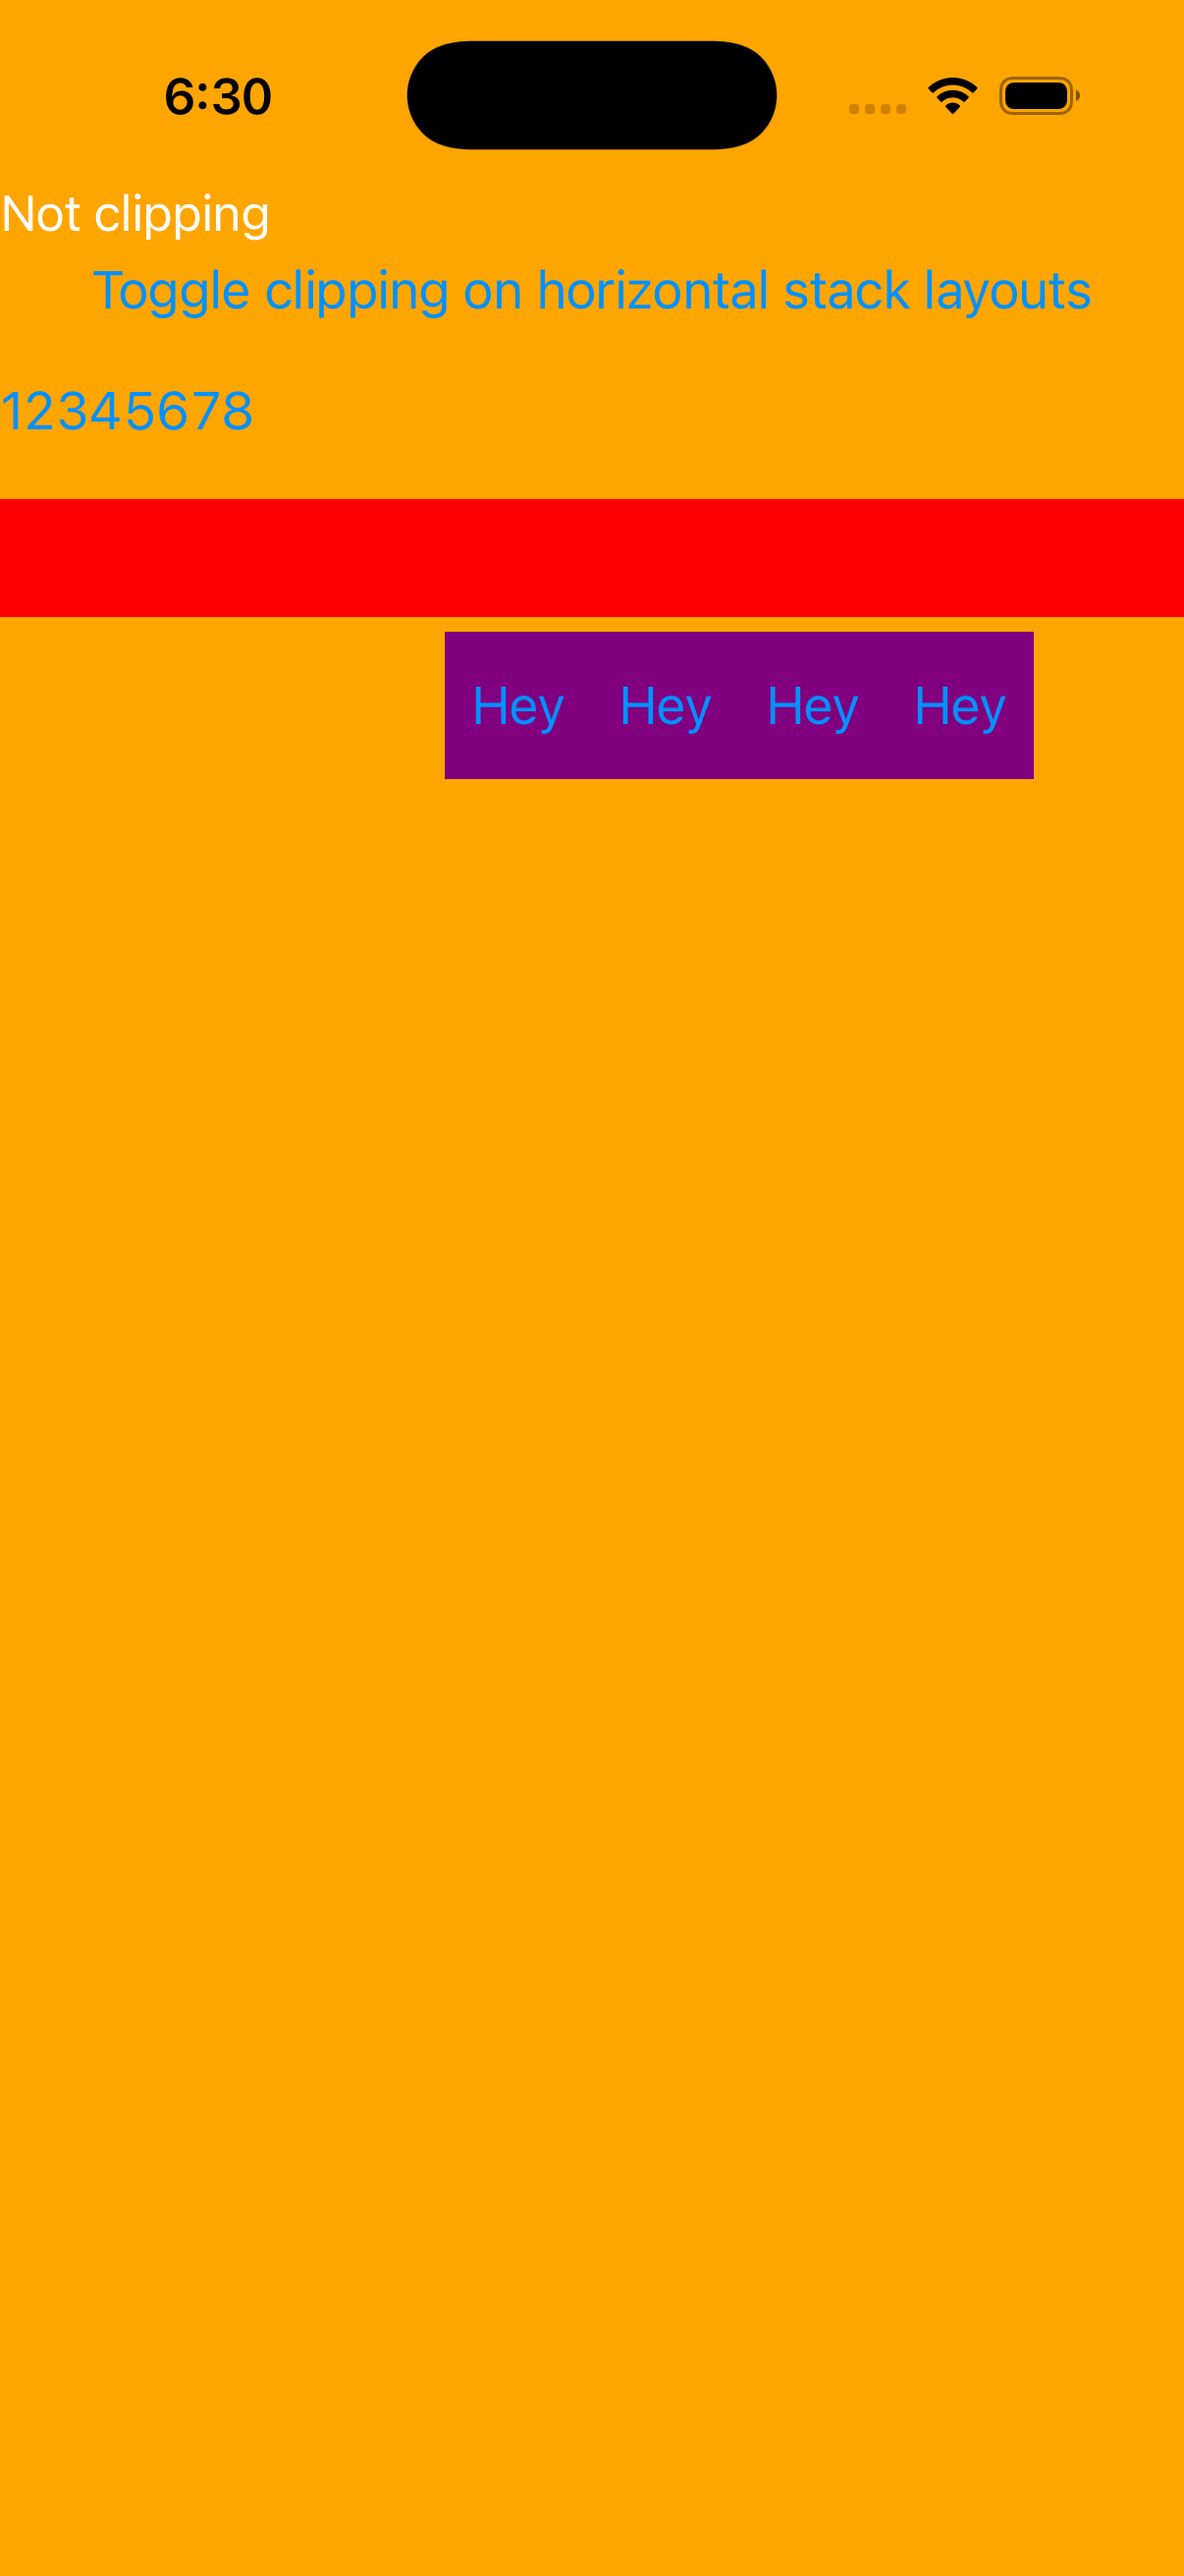
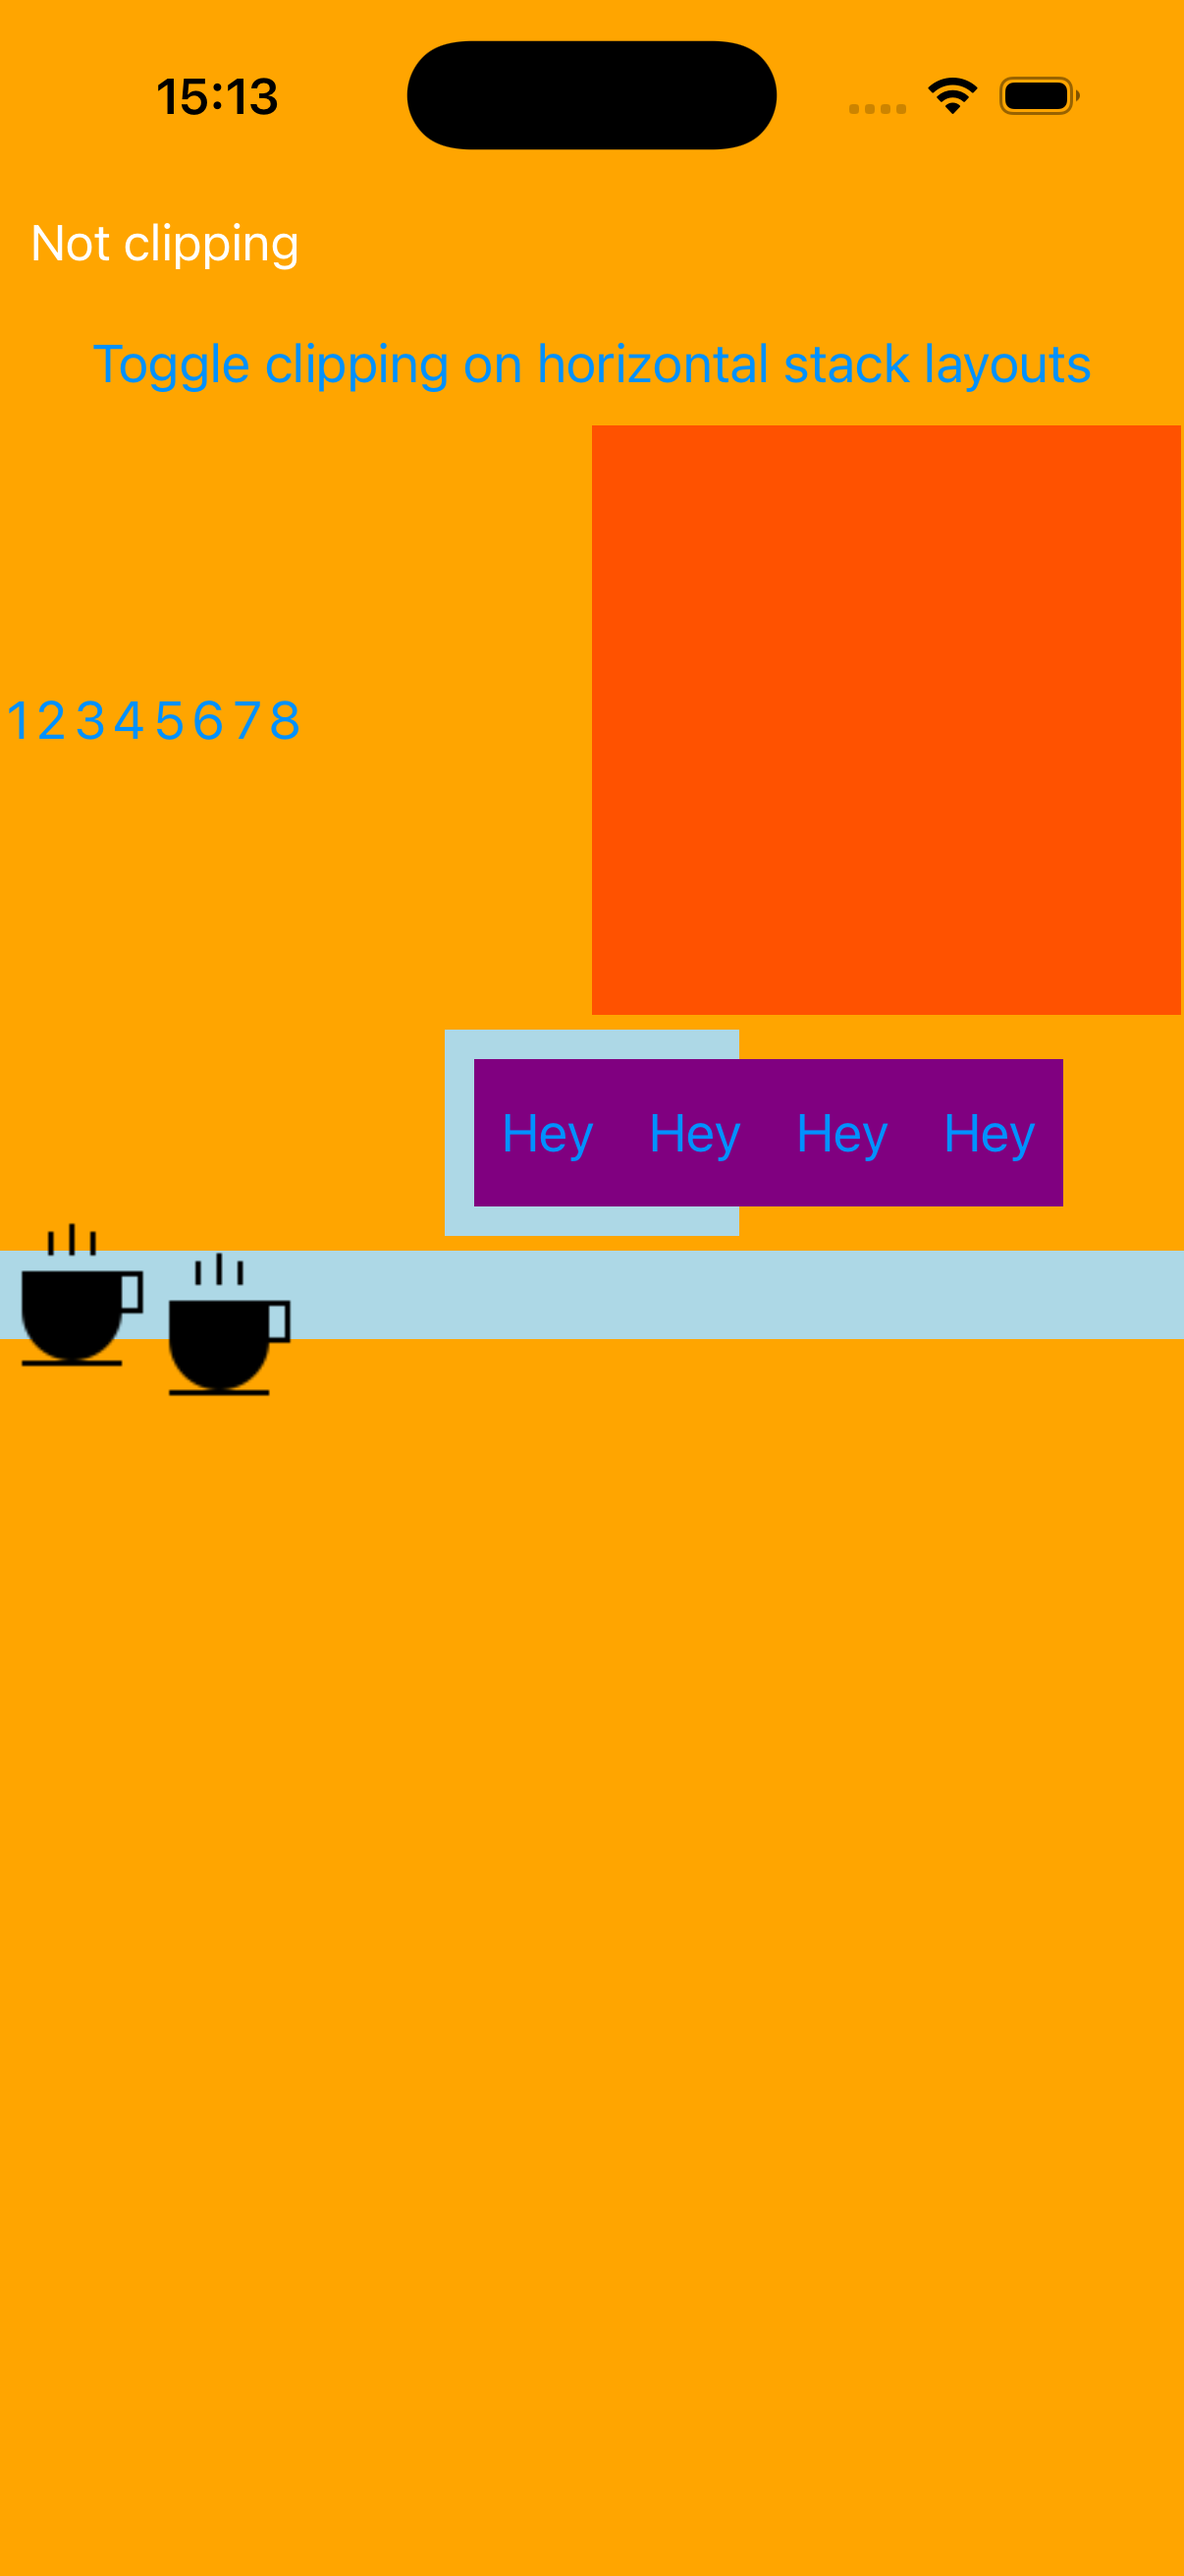
docs(parity): clipping diff->minor (1:1 page rewrite 0c9202c7a4 — grid overflow square + LightBlue rows now render)

Changed region(s): [[0.0, 0.0309, 1.0, 0.5561], [0.1534, 0.278, 0.1841, 0.3089], [0.092, 0.278, 0.1227, 0.3089]]

diff --git a/port/cpp/docs/comparison/README.md b/port/cpp/docs/comparison/README.md
@@ -2,7 +2,7 @@
 
 Theme-matched iOS comparison: each page rendered by **real .NET MAUI** vs the **C++ port**, on the same iPhone 17 simulator, compared **light-vs-light** and **dark-vs-dark**. Both stacks render native-default controls + the system font (the C# app's `dotnet new maui` default `Styles.xaml` + OpenSans are stripped; appearance forced via `MAUI_THEME` / `MAUI_APPEARANCE`). Goal: pixel-perfect parity, fixed example-by-example.
 
-**Progress: 0 / 172 🟢 matched** · 99 🟡 minor · 19 🔴 diff · 54 ⬜ pending
+**Progress: 0 / 172 🟢 matched** · 100 🟡 minor · 18 🔴 diff · 54 ⬜ pending
 
 Status legend: 🟢 pixel-match (both themes) · 🟡 minor diff · 🔴 notable diff to fix · ⬜ not yet reviewed. Per-theme verdicts in `parity_status.json`.
 
@@ -81,7 +81,7 @@ Rows are in **fix order** (top → bottom): foundational single controls first (
 | 67 | Clip Views | 🟡<br>L:minor<br>D:minor | ![](csharp_ios_light/clip_views.png) | ![](cpp_ios_light/clip_views.png) | ![](csharp_ios_dark/clip_views.png) | ![](cpp_ios_dark/clip_views.png) |
 | 68 | Clip Corner Radius | 🟡<br>L:minor<br>D:minor | ![](csharp_ios_light/clip_corner_radius.png) | ![](cpp_ios_light/clip_corner_radius.png) | ![](csharp_ios_dark/clip_corner_radius.png) | ![](cpp_ios_dark/clip_corner_radius.png) |
 | 69 | Clip Gallery | 🟡<br>L:minor<br>D:minor | ![](csharp_ios_light/clip_gallery.png) | ![](cpp_ios_light/clip_gallery.png) | ![](csharp_ios_dark/clip_gallery.png) | ![](cpp_ios_dark/clip_gallery.png) |
-| 70 | Clipping | 🔴<br>L:diff<br>D:diff | ![](csharp_ios_light/clipping.png) | ![](cpp_ios_light/clipping.png) | ![](csharp_ios_dark/clipping.png) | ![](cpp_ios_dark/clipping.png) |
+| 70 | Clipping | 🟡<br>L:minor<br>D:minor | ![](csharp_ios_light/clipping.png) | ![](cpp_ios_light/clipping.png) | ![](csharp_ios_dark/clipping.png) | ![](cpp_ios_dark/clipping.png) |
 | 71 | Shadow Playground | 🟡<br>L:minor<br>D:minor | ![](csharp_ios_light/shadow_playground.png) | ![](cpp_ios_light/shadow_playground.png) | ![](csharp_ios_dark/shadow_playground.png) | ![](cpp_ios_dark/shadow_playground.png) |
 | 72 | Invalidate Shadow Host | 🟡<br>L:minor<br>D:minor | ![](csharp_ios_light/invalidate_shadow_host.png) | ![](cpp_ios_light/invalidate_shadow_host.png) | ![](csharp_ios_dark/invalidate_shadow_host.png) | ![](cpp_ios_dark/invalidate_shadow_host.png) |
 | 73 | CollectionView | 🟡<br>L:minor<br>D:minor | ![](csharp_ios_light/collectionview.png) | ![](cpp_ios_light/collectionview.png) | ![](csharp_ios_dark/collectionview.png) | ![](cpp_ios_dark/collectionview.png) |
